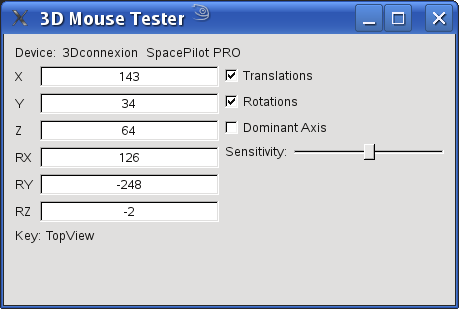
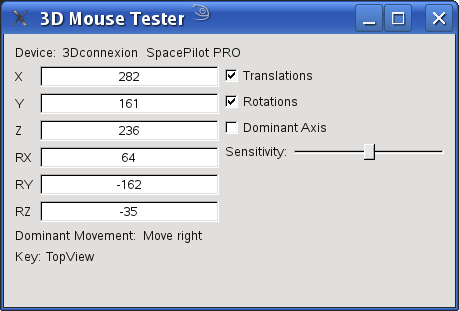
Acceptance tests for 3D mice

diff --git a/util/mouse3dtest/mousedetails.cpp b/util/mouse3dtest/mousedetails.cpp
@@ -181,6 +181,60 @@ bool MouseDetails::event(QEvent *e)
         rotateX->setText(QString::number(event->rotateX()));
         rotateY->setText(QString::number(event->rotateY()));
         rotateZ->setText(QString::number(event->rotateZ()));
+
+        // Determine which axis is dominant.
+        int values[6] = {event->translateX(), event->translateY(),
+                         event->translateZ(), event->rotateX(),
+                         event->rotateY(), event->rotateZ()};
+        int largest = 0;
+        int value = qAbs(values[0]);
+        for (int index = 1; index < 6; ++index) {
+            int value2 = qAbs(values[index]);
+            if (value2 > value) {
+                largest = index;
+                value = value2;
+            }
+        }
+        switch (largest) {
+        case 0:
+            if (values[0] < 0)
+                dominantMovement->setText(tr("Move left"));
+            else if (values[0] > 0)
+                dominantMovement->setText(tr("Move right"));
+            else
+                dominantMovement->setText(tr("Centered"));
+            break;
+        case 1:
+            if (values[1] < 0)
+                dominantMovement->setText(tr("Move forward"));
+            else
+                dominantMovement->setText(tr("Move back"));
+            break;
+        case 2:
+            if (values[2] < 0)
+                dominantMovement->setText(tr("Pulled up"));
+            else
+                dominantMovement->setText(tr("Pushed down"));
+            break;
+        case 3:
+            if (values[3] < 0)
+                dominantMovement->setText(tr("Rocked forward"));
+            else
+                dominantMovement->setText(tr("Rocked back"));
+            break;
+        case 4:
+            if (values[4] < 0)
+                dominantMovement->setText(tr("Rocked right"));
+            else
+                dominantMovement->setText(tr("Rocked left"));
+            break;
+        case 5:
+            if (values[5] < 0)
+                dominantMovement->setText(tr("Twist left"));
+            else
+                dominantMovement->setText(tr("Twist right"));
+            break;
+        }
         return true;
     } else {
         return QWidget::event(e);
